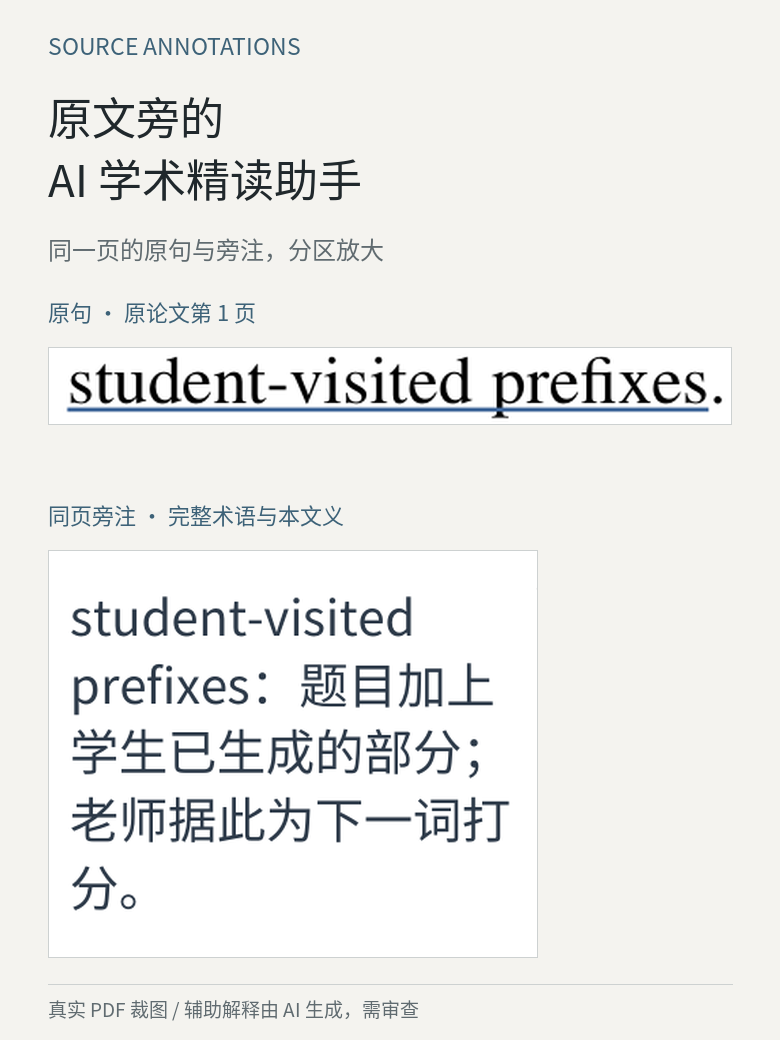
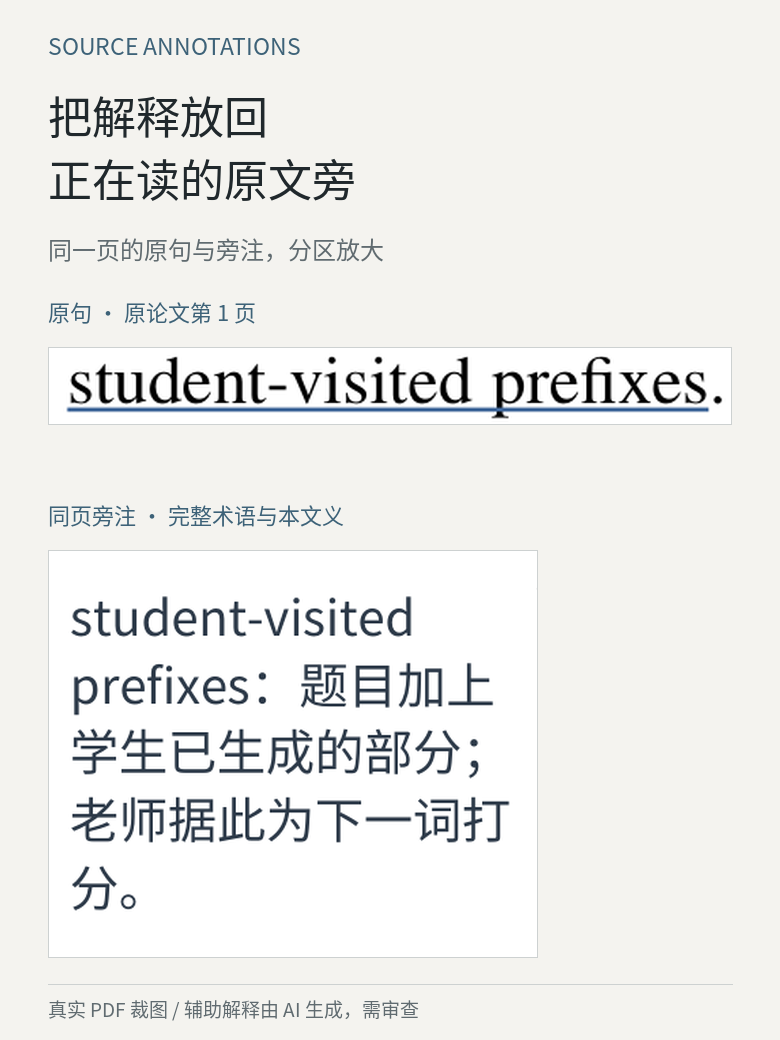
docs: show the reading journey with a four-corner framework

Changed region(s): [[0.0615, 0.0923, 0.4615, 0.2154]]

diff --git a/scripts/framework_overview.py b/scripts/framework_overview.py
@@ -1,0 +1,96 @@
+"""Render a reader-value map as PNG and editable SVG, with one shared scene.
+
+Uses only Pillow from requirements-showcase.txt and the bundled Noto font.
+This is an explanatory diagram of existing capabilities, not a product UI.
+"""
+from html import escape
+from pathlib import Path
+import hashlib
+import json
+from PIL import Image, ImageDraw, ImageFont
+
+ROOT=Path(__file__).resolve().parents[1]
+OUT=ROOT/'examples/waypoint-opd/showcase'
+FONT=ROOT/'assets/NotoSansCJKsc-Regular.otf'
+INK,BLUE,MUTED,RULE,BG='#20282c','#3d6278','#606b70','#c6cdcf','#f6f5f1'
+
+
+def scene(mobile=False):
+    width,height=(780,1040) if mobile else (1440,860)
+    ops=[]
+    def line(points,color=RULE,weight=2):ops.append({'kind':'line','points':points,'fill':color,'width':weight})
+    def text(x,y,value,size=24,color=INK,center=False):
+        f=ImageFont.truetype(str(FONT),size)
+        if center:x-=f.getlength(value)/2
+        if x<10 or x+f.getlength(value)>width-10:raise ValueError('Diagram text outside canvas: '+value)
+        ops.append({'kind':'text','x':x,'y':y,'value':value,'size':size,'fill':color})
+    corners=[
+        ('Reading Brief','阅读导览','先理清问题，再选阅读入口。',['问题 · 先修知识','路线 · 原文入口']),
+        ('In-context Notes','原文旁注','把解释放在正在读的段落旁。',['术语 · 长句','公式 · 机制']),
+        ('Evidence Trace','证据追溯','看清判断由什么支持、限于哪里。',['实测 · 推导','作者主张 · 导读解释']),
+        ('Reproducible Output','可复现产物','留下能复查、保存和重建的阅读结果。',['JSON · 两种 PDF','Mobile HTML · SHA256']),
+    ]
+    if mobile:
+        positions=[(38,58),(426,58),(38,712),(426,712)]
+        lines=[[(330,300),(330,350),(355,375)],[(450,300),(450,350),(425,375)],
+               [(330,702),(330,655),(355,630)],[(450,702),(450,655),(425,630)]]
+        for points in lines:line(points)
+        for index,((x,y),(en,cn,desc,keywords)) in enumerate(zip(positions,corners)):
+            line([(x,y+29),(x,y+5),(x+28,y+5)],BLUE)
+            text(x+13,y+15,en,19,BLUE)
+            text(x+13,y+58,cn,32)
+            short=['知道先读哪里','读原文，少些打断','回查依据与边界','保存、复查、重建'][index]
+            text(x+13,y+115,short,26)
+            for n,kw in enumerate(keywords):text(x+13,y+168+n*36,kw,23,MUTED)
+        text(width/2,397,'Read the paper,',38,center=True)
+        text(width/2,454,'not just the summary.',38,center=True)
+        text(width/2,529,'摘要用于筛选，理解回到原文',26,BLUE,True)
+        text(width/2,576,'帮助你亲自读进去',25,MUTED,True)
+        line([(38,1002),(742,1002)])
+        text(38,1013,'SOURCE ANNOTATIONS / 阅读价值框架',16,MUTED)
+    else:
+        positions=[(64,55),(824,55),(64,594),(824,594)]
+        for points in [[(592,245),(640,290),(640,323)],[(848,245),(800,290),(800,323)],
+                       [(592,590),(640,550),(640,520)],[(848,590),(800,550),(800,520)]]:line(points)
+        for (x,y),(en,cn,desc,keywords) in zip(positions,corners):
+            line([(x,y+42),(x,y+7),(x+34,y+7)],BLUE)
+            text(x+18,y+13,en,22,BLUE)
+            text(x+18,y+54,cn,34)
+            text(x+18,y+111,desc,25)
+            text(x+18,y+163,' · '.join(kw.replace(' · ',' / ') for kw in keywords),21,MUTED)
+        text(width/2,332,'Read the paper,',44,center=True)
+        text(width/2,397,'not just the summary.',44,center=True)
+        text(width/2,473,'读摘要用于筛选，理解仍要回到原文',29,BLUE,True)
+        line([(64,810),(1376,810)])
+        text(64,827,'SOURCE ANNOTATIONS / 让理解辅助回到原文现场',18,MUTED)
+    return width,height,ops
+
+
+def render(name,mobile=False):
+    w,h,ops=scene(mobile)
+    im=Image.new('RGB',(w,h),BG);draw=ImageDraw.Draw(im)
+    svg=[f'<svg xmlns="http://www.w3.org/2000/svg" width="{w}" height="{h}" viewBox="0 0 {w} {h}" role="img" aria-labelledby="title">',
+         '<title id="title">Source Annotations：围绕亲自阅读原论文的四项辅助</title>',f'<rect width="{w}" height="{h}" fill="{BG}"/>']
+    for op in ops:
+        if op['kind']=='line':
+            draw.line(op['points'],fill=op['fill'],width=op['width'])
+            points=' '.join(f'{x},{y}' for x,y in op['points'])
+            svg.append(f'<polyline points="{points}" fill="none" stroke="{op["fill"]}" stroke-width="{op["width"]}"/>')
+        else:
+            f=ImageFont.truetype(str(FONT),op['size']);draw.text((op['x'],op['y']),op['value'],font=f,anchor='lt',fill=op['fill'])
+            box=draw.textbbox((op['x'],op['y']),op['value'],font=f,anchor='lt')
+            if box[3]>=h:raise ValueError('Diagram text exceeds bottom')
+            # SVG baseline is derived from the same font, keeping editable text.
+            asc,_=f.getmetrics();baseline=op['y']+asc-f.getbbox(op['value'])[1]
+            svg.append(f'<text x="{op["x"]:.2f}" y="{baseline:.2f}" font-size="{op["size"]}" fill="{op["fill"]}" font-family="Noto Sans CJK SC, Microsoft YaHei, sans-serif">{escape(op["value"])}</text>')
+    svg.append('</svg>');OUT.mkdir(parents=True,exist_ok=True)
+    im.save(OUT/(name+'.png'),optimize=True)
+    (OUT/(name+'.svg')).write_text('\n'.join(svg)+'\n',encoding='utf-8')
+    return {'size':[w,h],'png_sha256':hashlib.sha256((OUT/(name+'.png')).read_bytes()).hexdigest()}
+
+
+if __name__=='__main__':
+    data={name:render(name,mobile) for name,mobile in [('framework-overview',False),('framework-mobile',True)]}
+    (OUT/'framework-manifest.json').write_text(json.dumps({'type':'reader-value diagram; not a screenshot','source':'scripts/framework_overview.py',
+        'font':'bundled Noto Sans CJK SC / SIL OFL 1.1','figures':data},ensure_ascii=False,indent=2)+'\n',encoding='utf-8')
+    print('Generated desktop/mobile PNG + editable SVG from shared scene')

diff --git a/scripts/showcase.py b/scripts/showcase.py
@@ -98,7 +98,7 @@ def main():
 
     log=[]; im=Image.new('RGB',(780,1040),BG)
     text(im,(48,38),'SOURCE ANNOTATIONS',23,BLUE)
-    text(im,(48,96),'原文旁的\nAI 学术精读助手',44)
+    text(im,(48,96),'把解释放回\n正在读的原文旁',44)
     text(im,(48,238),'同一页的原句与旁注，分区放大',24,MUTED)
     text(im,(48,302),'原句 · 原论文第 1 页',22,BLUE)
     paste(im,crop(doc,1,[141,333.6,242,344.9],684,log,'Exact source term, magnified'),(48,347))

diff --git a/README.md b/README.md
@@ -1,86 +1,58 @@
 # Source Annotations
 
-**Read the paper, understand it in place.**
+**Read the paper, not just the summary.**
 
-### 帮助读者亲自理解原论文
+把阅读导览、原文旁注和证据入口放在一起，**帮你亲自读进原论文**。
 
-一篇摘要可以帮助我们判断论文是否值得读，却很难交代完整的方法细节、实验条件和结论边界。AI 能很快整理重点，但如果始终只看整理后的答案，理解也容易停留在答案里。真正弄清楚作者做了什么、为什么这样做，以及证据能支持到哪一步，还是要回到原文。
+[先读导览 PDF](output/waypoint-opd-v1-reading-brief.pdf) · [看标注 PDF](output/waypoint-opd-v1-annotated.pdf) · [三种用法与依赖](#快速开始) · [完整说明](docs/usage.md)
 
-**Source Annotations 想做的，是让回到原文这件事更轻松。** 先用一页中文导览理清研究问题、前置知识与阅读路线，再直接跳到值得细读的原句、公式和图表；读的过程中，必要的术语、长句和机制解释就放在对应位置旁边，尽量减少查词、切换窗口和反复找出处的打断。
-
-它不替代你的阅读和判断，而是帮你把注意力留在论文上。
-
-**[先看阅读导览 PDF](output/waypoint-opd-v1-reading-brief.pdf)** · **[看带旁注的 PDF](output/waypoint-opd-v1-annotated.pdf)** · [快速开始](#快速开始) · [完整使用说明](docs/usage.md)
-
-## 先有方向，再读原文
-
-导览不是把 Abstract 再翻译一遍，而是一张可以点击的**阅读地图**：
-
-- **读之前**，用简短的背景解释补上理解这篇论文所需的前提，指出它究竟在解决什么问题。
-- **开始读**，围绕问题、方法、机制、证据和边界安排阅读顺序，告诉你哪些地方值得花时间。
-- **读到关键处**，点击入口回到论文的具体原句、图表或公式；无法精确定位时明确使用整页入口，而不伪装成精确引用。
-
-不必从第一页硬读到最后一页，也不必被别人整理的摘要限制住理解。可以先顺着导览抓住主线，再根据自己的疑问回原文细读。
-
-<a href="examples/waypoint-opd/showcase/evidence-navigation.png"><picture>
-  <source media="(max-width: 600px)" srcset="examples/waypoint-opd/showcase/evidence-mobile.png">
-  <img src="examples/waypoint-opd/showcase/evidence-navigation.png" alt="真实论文阅读导览中的一个观点链接到原论文中的对应证据和限制条件。" width="1440">
-</picture></a>
-
-*上图展示导览到原文证据的关系，是根据真实 PDF 跳转位置制作的静态组合图；在 [PDF](output/waypoint-opd-v1-reading-brief.pdf) 中可直接点击链接。示例建议用 45 分钟掌握研究主线，这是阅读预算，不是已经测出的提速结果。*
-
-## 读的过程中，少一点打断
-
-查一个术语、拆一段长句，或寻找公式解释，都可能打断阅读。我们尽量把这些辅助信息放回原文附近：
-
-- **术语**：解释这个词在*本文*中是什么意思，而不是贴一整段词典释义。
-- **长句**：保留原句的条件、否定和比较对象，避免“翻译明白了，意思却变了”。
-- **公式**：说明符号代表什么、如何计算、为什么这样设计，和原论文的例子相互对照。
-- **结论与证据**：重点高亮对应原句，并区分实验结果、数学推导、作者观点和辅助解释。
-
-<a href="examples/waypoint-opd/showcase/hero.png"><picture>
+<a href="examples/waypoint-opd/showcase/hero.png">
+<picture>
   <source media="(max-width: 600px)" srcset="examples/waypoint-opd/showcase/hero-mobile.png">
-  <img src="examples/waypoint-opd/showcase/hero.png" alt="真实论文英文正文与左右两侧的中文术语、长句和结论限制批注。" width="1440">
-</picture></a>
+  <img src="examples/waypoint-opd/showcase/hero.png" alt="真实论文局部：英文正文保留在中间，术语、长句和结论边界的解释就在两侧。" width="1440">
+</picture>
+</a>
 
-[![相同论文位置的原文与批注前后对比](examples/waypoint-opd/showcase/before-after.png)](examples/waypoint-opd/showcase/before-after.png)
+*真实 PDF 局部，非整页缩略图。中文解释与标记由本项目添加。*
 
-*图片取自同一版本的 Waypoint-OPD 论文和本项目生成的标注 PDF。主图保留原文与批注的空间关系；对比图上方使用同坐标原句，右下为同页旁注的单独放大。窄屏可点击大图；完整样例见 [标注 PDF](output/waypoint-opd-v1-annotated.pdf)。*
+## 摘要看懂了，正文却读不下去
 
-## 从概括到证据，再到自己的理解
+一个陌生术语让你打开搜索页，一段长句又把你带进聊天窗口。回到公式时，你已经忘了它要解决哪个问题；看到提升数字，还得往回找比较对象和实验条件。
 
-导览负责指出“先读哪里”，正文批注负责减少理解障碍，原文链接负责让每个重要判断有出处。三者配合，目标不是把一篇论文压缩成几张卡片，而是让读者能够沿着**核心问题 → 作者方法 → 原文证据 → 适用限制**形成自己的认识。
+摘要适合筛选论文，AI 总结也能提示方向；要弄清方法和证据，仍要自己读原文。这里做的，是把背景、阅读路径和必要解释带回论文现场，**减少来回找资料、重新接上思路的阻力**。
 
-本项目使用结构化记录保存论文版本、原句、页码及解释；匹配不到原句、出现歧义或版面冲突时，生成脚本会停止，而不会猜一个位置。智能体负责通读、选重点和起草解释；确定性脚本负责原句匹配、坐标、绘制和机械检查，本身不调用模型。人工或独立模型负责内容审查；**机械检查通过不等于学术解释一定正确**。
+## 围绕读原文，做好四件事
 
-[查看样例标注数据](examples/waypoint-opd/annotations.json) · [查看工程原理](docs/architecture.md) · [查看实际验收](review/STATUS.md)
+<a href="examples/waypoint-opd/showcase/framework-overview.png">
+<picture>
+  <source media="(max-width: 600px)" srcset="examples/waypoint-opd/showcase/framework-mobile.png">
+  <img src="examples/waypoint-opd/showcase/framework-overview.png" alt="四角阅读框架：左上阅读导览，右上原文旁注，左下证据追溯，右下可复现产物；中心是亲自读原论文。" width="1440">
+</picture>
+</a>
+
+导览带你进入正文，旁注帮助理解，证据入口让判断可回查，文件让结果可保存。这不是把全文换成中文或另写一份摘要，也不只是在 PDF 上涂颜色。
 
 ## 快速开始
 
-这里有三种使用方式，按你自己的需要选择。
+### 依赖与环境
 
-### 方式一：直接体验，不需要安装
+| 需要什么 | 实际要求 |
+|---|---|
+| Python 与 PDF 引擎 | **Python 3.11+**；`PyMuPDF==1.26.5`，用 `requirements.txt` 安装 |
+| 字体 | Noto CJK 已随完整仓库放在 `assets/` |
+| 模型与 API Key | 复现已有记录**不需要**；新论文需要能读 PDF、写文件和执行 Python 的智能体，是否需 API Key 取决于工具 |
+| 下载 | ZIP 或 Git；首次安装依赖和下载原论文需网络 |
+| 已验收环境 | **Windows / Python 3.13.5**；macOS/Linux 尚未完整验收 |
 
-下载 [只有导览的 PDF](output/waypoint-opd-v1-reading-brief.pdf)，先看第一页，再点击其中的原文入口。请下载后用支持 PDF 内部链接的阅读器打开；也可以下载 [完整标注 PDF](output/waypoint-opd-v1-annotated.pdf)，直接阅读原文旁的解释。
+### 方式一：直接读样例
 
-如需手机浏览器入口，下载 [手机 HTML](output/waypoint-opd-mobile.html)，使用浏览器打开。页图已内嵌，可单独离线阅读；若要使用“打开 PDF”按钮，还需把完整标注 PDF 按原文件名放在同一个文件夹。GitHub 文件页不会运行 HTML，窄屏仍需要缩放。
+下载[阅读导览 PDF](output/waypoint-opd-v1-reading-brief.pdf)，从第一页的问题、先修知识和路线进入原文；或读[标注 PDF](output/waypoint-opd-v1-annotated.pdf)，看正文旁的解释。内部跳转需使用支持该功能的 PDF 阅读器。
 
-### 方式二：在电脑上复现这个示例
+[手机 HTML](output/waypoint-opd-mobile.html)内嵌页图，可单独离线打开，窄屏需要缩放；使用“打开 PDF”按钮时，将标注 PDF 按原文件名放在同目录。GitHub 文件页不会运行 HTML。
 
-**依赖与环境**
+### 方式二：本地复现样例
 
-| 项目 | 要求或说明 |
-| --- | --- |
-| Python | **3.11 或更高**；已验证 Windows / Python 3.13.5 |
-| PDF 依赖 | `PyMuPDF==1.26.5`，由 `requirements.txt` 安装 |
-| 中文字体 | 所需 Noto CJK 字体已包含在完整仓库的 `assets/` 内 |
-| Git | 用 `git clone` 下载时需要；也可以下载仓库 ZIP |
-| 网络 | 首次安装依赖、下载示例原论文时需要 |
-| AI / API Key | **复现现有数据不需要模型或 API Key**；新论文需要智能体阅读并生成记录，是否需 API Key 取决于所用工具 |
-
-仅重新制作 README 展示图时另需 `requirements-showcase.txt` 中的 Pillow；复现 PDF 不需要它。
-
-在 **Windows PowerShell** 中运行（macOS/Linux 的解释器路径见 [使用说明](docs/usage.md)，尚未在这些系统完整验收）：
+Windows PowerShell：
 
 ```powershell
 git clone https://github.com/Levinesjob/source-annotations.git
@@ -88,49 +60,50 @@ cd source-annotations
 python -m venv .venv
 .\.venv\Scripts\python.exe -m pip install -r requirements.txt
 .\.venv\Scripts\python.exe scripts/fetch_example.py
-
-# 在原论文前插入一页导览（此样例输出共21页）
 .\.venv\Scripts\python.exe scripts/prepend_guide.py local/waypoint-opd-v1.pdf examples/waypoint-opd/annotations.json local/reproduced-guide.pdf
-
-# 再生成带原文旁注的阅读版
 .\.venv\Scripts\python.exe scripts/annotate.py local/waypoint-opd-v1.pdf examples/waypoint-opd/annotations.json local/reproduced.pdf
 .\.venv\Scripts\python.exe scripts/verify.py local/waypoint-opd-v1.pdf examples/waypoint-opd/annotations.json local/reproduced.pdf
 ```
 
-这些命令使用**仓库预置的示例标注数据**，重现排版与定位流程，不会自动重新阅读论文，也不会调用模型。完整手机输出、测试及更多命令见 [docs/usage.md](docs/usage.md)。
+这是用**现成 JSON 重建导览、旁注和定位**，不会重新理解论文。两种 PDF 都含原文：本例是 1 页导览＋20 页论文。手机输出、测试与其他系统命令见[使用说明](docs/usage.md)。
 
-### 方式三：作为 Skill 处理你自己的论文
+### 方式三：用 Skill 读自己的论文
 
-需要支持 Agent Skills、能够读取 PDF、写文件并运行本地 Python 的工具或智能体。安装时复制**完整仓库目录**，不是只放一个 `SKILL.md`：
+把完整目录安装到工具可发现的技能位置，不能只复制 `SKILL.md`。Codex、Cursor、Claude Code 的[目录与调用方式](docs/usage.md#安装为-skill)分别说明。
 
-| 工具 | 技能目录示例 | 使用方式 |
-| --- | --- | --- |
-| Codex | 用户 `~/.agents/skills/source-annotations/`，或项目 `.agents/skills/source-annotations/` | 提示词中调用 `$source-annotations` |
-| Cursor | 项目 `.cursor/skills/source-annotations/`，或用户 `~/.agents/skills/source-annotations/` | 在对话中指定使用该 Skill |
-| Claude Code | `~/.claude/skills/source-annotations/` | 调用 `/source-annotations` |
+> 使用 `$source-annotations` 精读这篇论文。先做一页导览，讲清问题、前置知识和阅读路径，链接到原文证据；再为难词、长句、关键公式和结论添加少量旁注。保留原论文，报告未核验的解释。
 
-可以这样提出需求：
+新论文需要智能体重新通读和生成记录，不能只替换样例 PDF 路径。[通用文字指令](docs/plain-prompt.md)可用于其他聊天工具，但不保证能导出 PDF。
 
-> 使用 `$source-annotations` 处理这篇论文。请先通读并做一页阅读导览，说明研究问题、必要前置知识、值得先读的机制与实验，并在导览中给出真实的原文跳转。随后为难词、长句、关键公式和证据制作少量高质量的原文旁注。保留原论文，报告尚未核验的解释。
+## 读起来是什么样
 
-新论文需要重新分析、生成对应的结构化标注记录；不能直接替换样例 PDF 路径就完成理解。Codex 目录按[当前官方说明](https://learn.chatgpt.com/docs/build-skills#where-codex-loads-local-skills)列出；本机此前的 `~/.codex/skills/` 安装记录仍保留，不把它作为所有版本的通用目录。Skill 的发现方式随工具版本而变化；安装和已验证能力见 [完整使用说明](docs/usage.md#安装为-skill)。
+**读到术语，解释就留在旁边。** 下图上方是同页、同坐标的原句；右下是原有旁注放大，没有重写论文文字。
 
-## 当前支持范围
+[![原句与同页术语解释的前后对比](examples/waypoint-opd/showcase/before-after.png)](examples/waypoint-opd/showcase/before-after.png)
 
-这是 **v0.1.0 Preview**，已发布版本为 [v0.1.0-preview.1](https://github.com/Levinesjob/source-annotations/releases/tag/v0.1.0-preview.1)，提供一条可以复现的真实论文阅读流程。
+**读到一个判断，继续看它的依据和边界。** 导览入口可跳向真实原句、公式或图表；无法精确定位时明确使用整页入口。
 
-- 当前样例：**一页导览 + 20 页原论文，44 条精选标注**。
-- 已报告通过：**23 项自动测试**；仅插导览流程在三类真实论文、共 44 页原研究内容上做过回归。
-- 尚未完成：当前44条解释与新导览的完整独立复核、全部逐条专业审查、最新移动端实机完整操作，以及阅读速度和理解质量的对照测量。
-- 首版主要处理带文字层的英文 PDF；扫描、旋转或异常裁剪文件尚不支持自动处理。
-- **仅插导览**与**生成正文旁注**是两条不同 PDF 路径；前者经过原页内容与部分结构保留检查，后者会重建研究页，不能假定保留原 PDF 的全部交互对象。
+<a href="examples/waypoint-opd/showcase/evidence-navigation.png">
+<picture>
+  <source media="(max-width: 600px)" srcset="examples/waypoint-opd/showcase/evidence-mobile.png">
+  <img src="examples/waypoint-opd/showcase/evidence-navigation.png" alt="导览中的正确性限制入口跳到原论文第4页对应原句，并展示同页解释。" width="1440">
+</picture>
+</a>
 
-更详细的边界见 [实际验收记录](review/STATUS.md)、[回归记录](review/ACADEMIC-REGRESSION.md) 和 [工程说明](docs/architecture.md)。
+*真实 GoTo 位置的静态组合，并非操作录屏；请在 PDF 中点击体验。实测、推导、作者主张、导读解释分开标记，不把辅助解释当作作者结论。*
+
+## 验证与边界
+
+当前为 [v0.1.0-preview.1](https://github.com/Levinesjob/source-annotations/releases/tag/v0.1.0-preview.1) 公开预览。样例有 **44 条标注**，已有 **23 项自动测试**记录；只插导览路径在三类论文、共44页原研究内容上做过回归。
+
+智能体起草解释，脚本负责版本校验、原句定位、绘制与机械检查，人工或独立模型审查内容。**机械检查通过不代表解释正确**。新版完整独立复核、全部逐条专业审查和最新真实手机完整操作仍未完成；45分钟是阅读预算，**没有量化提速结果**。
+
+只插导览与正文旁注是两条路径：前者验证了原页内容及部分结构保留；后者重建研究页，遇到原有人工批注或表单会拒绝，不能假定完整保留交互对象。扫描、旋转、异常裁剪及复杂结构的范围见[工程说明](docs/architecture.md)。
+
+[实际验收](review/STATUS.md) · [回归记录](review/ACADEMIC-REGRESSION.md) · [真实标注 JSON](examples/waypoint-opd/annotations.json) · [本轮展示来源与检查](docs/readme-framework-review.md)
 
 ## 许可与反馈
 
-本项目新增代码、指令和中文解释使用 [MIT](LICENSE)；样例原论文为 **CC BY 4.0**，Noto 字体使用 **SIL OFL 1.1**。依赖的 **PyMuPDF 适用 AGPL／商业双许可**，项目自身的 MIT 不会覆盖第三方依赖许可。详见 [第三方说明](THIRD_PARTY_NOTICES.md)。
+新增代码、指令和中文解释采用 [MIT](LICENSE)；论文原内容为 **CC BY 4.0**，Noto 字体为 **SIL OFL 1.1**。PyMuPDF 适用 **AGPL／商业双许可**，本项目 MIT 不覆盖依赖条款。见[第三方说明](THIRD_PARTY_NOTICES.md)。
 
-如果某条批注遗漏了条件、误读了公式，或者导览跳错了位置，欢迎通过 [Issues](https://github.com/Levinesjob/source-annotations/issues/new?template=feedback.yml) 说明论文版本、页码与具体问题。这样的反馈比单纯增加标注数量更有帮助。
-
-请先移除私人或公司材料。[改稿差异与本轮验证结果](docs/readme-review.md)。
+欢迎[报告具体阅读卡点或错误](https://github.com/Levinesjob/source-annotations/issues/new?template=feedback.yml)：论文版本、页码、哪条解释或跳转出了问题。请移除私人和公司材料。

diff --git a/docs/readme-framework-review.md b/docs/readme-framework-review.md
@@ -1,0 +1,30 @@
+# README 四角框架与故事化改版
+
+## 改了什么
+
+首屏压缩为一句读者用途、阅读入口和真实PDF局部，接一个查术语/回读/找证据的短场景；再用四角图解释导览、旁注、证据与可复现结果。快速开始和依赖紧接框架图，深入演示放后面，避免正文介绍越来越长。
+
+- README.md：主线、展示顺序与三种用法；保留实际命令和验证边界。
+- scripts/framework_overview.py：PNG与可编辑SVG共用场景，生成桌面/窄屏框架。
+- examples/waypoint-opd/showcase/framework-overview.png、framework-mobile.png、同名SVG及framework-manifest.json：新增5个文件。
+- scripts/showcase.py、hero-mobile.png、manifest.json：只调整手机主图外围标题，保留真实原文与旁注。
+- docs/showcase.md、THIRD_PARTY_NOTICES.md及本记录：素材生成、来源和范围。
+
+## 实现对应
+
+四角分别对应已有reading_guide、annotations/正文绘制、GoTo/来源类别、JSON/PDF/HTML与哈希校验。没有新增在线服务、自动理解模块或内容正确性保证；两条PDF路径的保留范围继续区分。图是阅读价值示意，不是声称存在这些独立运行模块。
+
+## 核验结果
+
+- PNG与SVG各有桌面/窄屏版本；PNG已目视检查，SVG在Chromium中检查20/25个文字对象，均无越界。SVG字体替换的字形差异仍按下文说明。
+- GitHub GFM接口渲染后在本地Chromium检查830px桌面内容、390px手机视口，浅/深色各一次；四张展示图均加载，无页面水平溢出。已查看首屏、手机主图和实际显示尺寸的框架图。
+- 修复了原有HTML结构问题：连写的a/picture会被GitHub拆开，使source离开picture。改成独立HTML块后，检查浏览器实际naturalWidth：桌面为1440/1440/1440/1440，窄屏为780/780/1440/780，确认主图、框架、证据图都切换到窄屏版本；前后对比仍可点击大图。
+- Markdown解析为11个标题、3种使用方式、1张依赖表及1个PowerShell代码块；33个本地链接、图片路径与标题片段检查通过，git diff --check通过。
+- README生成命令的可执行行与上一轮已实际跑通的版本逐行一致；本轮重新运行固定v1缓存校验及verify，20页/44条几何和文字检查通过，pip check无依赖冲突。不把这些机械检查写成学术内容或真实手机验收。
+- 公开版本页、两种PDF下载入口及依赖许可入口HEAD返回200。未复测新平台或声称阅读效率提升。
+- 核心PDF脚本与标注JSON的Git规范化内容未变，两份已发布PDF字节未变；仅展示生成脚本更换一处手机图外围标题，并新增框架绘图脚本。
+- README总文件从10788字节减至7326字节（后续HTML分行只增加少量字节）；不是阅读速度测量，也不声称完成5秒理解验证。
+
+## 未完成或无法保证
+
+5秒内理解是设计目标，未做陌生读者计时实验；阅读更顺畅是产品目标，未证明提速或理解提升。预览不是实际手机验收，也不新增跨工具/跨平台认证。SVG是可编辑文本来源，字体不内嵌；PNG是稳定展示版本。没有制作交互录屏，实际GoTo演示仍使用已有静态组合。

diff --git a/docs/showcase.md b/docs/showcase.md
@@ -20,7 +20,7 @@
 | hero-mobile.png | 术语原句与同页旁注分区放大 | 相同PDF中a02对应位置，不是新界面 |
 | evidence-mobile.png | 窄屏的导览和证据放大 | 与桌面证据图相同GoTo和旁注 |
 
-所有图是**静态PDF裁图组合**，不是阅读器界面截图或操作录像。裁剪会省略周边内容，但不重写可见正文；查看完整语境请打开样例PDF。证据图的终点通过成品真实GoTo和报告交叉验证，不凭文案编造位置。
+上述5张论文展示图是**静态PDF裁图组合**，不是阅读器界面截图或操作录像。裁剪会省略周边内容，但不重写可见正文；查看完整语境请打开样例PDF。证据图的终点通过成品真实GoTo和报告交叉验证，不凭文案编造位置。
 
 [manifest.json](../examples/waypoint-opd/showcase/manifest.json)记录输入SHA256、每张图尺寸、物理页序、PDF点坐标和图像SHA256。原论文页码与PDF物理页码不同，前置导览使原文第4页对应物理第5页。原内容按[CC BY 4.0及第三方说明](../THIRD_PARTY_NOTICES.md)归属，展示不暗示论文作者认可项目。
 
@@ -41,3 +41,18 @@
 - 状态与来源：review/SHOWCASE-2026-10-18.md、review/STATUS.md、TODO.md、CHANGELOG.md、THIRD_PARTY_NOTICES.md。
 
 共19个新增或修改文件；已有LICENSE、SKILL.md、必需依赖与PDF算法不变。
+
+
+## 四角阅读框架（后续改版）
+
+`framework-overview.png`（1440×860）与`framework-mobile.png`（780×1040）围绕亲自读原论文说明阅读导览、原文旁注、证据追溯和可复现产物。它们是**阅读价值说明图，不是软件界面截图或技术模块依赖图**。关键词来自已有SKILL、JSON和导出脚本；“两种PDF”指只插导览与正文旁注两条不同路径，不代表结构保留保证相同。
+
+```powershell
+.\.venv\Scripts\python.exe scripts/framework_overview.py
+```
+
+同一次运行输出两张PNG、两份可编辑SVG和`framework-manifest.json`。PNG使用随包Noto字体并不透明渲染，作为README的稳定预览；SVG保留可编辑文字，未嵌入字体，单独打开时依赖Noto或系统中文字体，不保证不同系统的字形完全一致。两种格式共用同一绘图场景，生成时检查文本越界。
+
+手机主图只将外围标题从“AI学术精读助手”改为“把解释放回正在读的原文旁”；论文裁图、原句、批注没有改写。阅读体验和差异通过真实局部展示，不靠抽象工具名称说明。新版记录见[四角改版验收](readme-framework-review.md)。
+
+本次后续改版共13个文件：README.md、THIRD_PARTY_NOTICES.md、docs/showcase.md、docs/readme-framework-review.md、scripts/showcase.py、scripts/framework_overview.py；showcase目录的hero-mobile.png、manifest.json，以及新增的framework-overview.png/.svg、framework-mobile.png/.svg、framework-manifest.json。上一节19文件为前一轮历史清单。

diff --git a/THIRD_PARTY_NOTICES.md b/THIRD_PARTY_NOTICES.md
@@ -39,6 +39,6 @@ PyMuPDF 1.26.5：https://pymupdf.readthedocs.io/en/latest/about.html
 
 ## README展示素材与可选工具
 
-`examples/waypoint-opd/showcase/`为同一固定v1论文及标注副本的静态裁图组合，包含原论文CC BY 4.0内容；外围说明与构图由本项目添加，见[素材清单](docs/showcase.md)。使用随包Noto字体，不复制第三方产品截图或生成虚构界面。
+`examples/waypoint-opd/showcase/`中的论文截图为同一固定v1论文及标注副本的静态裁图组合，包含原论文CC BY 4.0内容；框架图是本项目的阅读价值说明图，不含论文裁图；外围说明与构图由本项目添加，见[素材清单](docs/showcase.md)。使用随包Noto字体，不复制第三方产品截图或生成虚构界面。
 
 展示脚本可选依赖Pillow 12.3.0，按[官方许可](https://pillow.readthedocs.io/en/stable/about.html#license)适用MIT-CMU；仅通过依赖安装，不随仓库重新分发二进制。它不加入PDF运行必需依赖。
